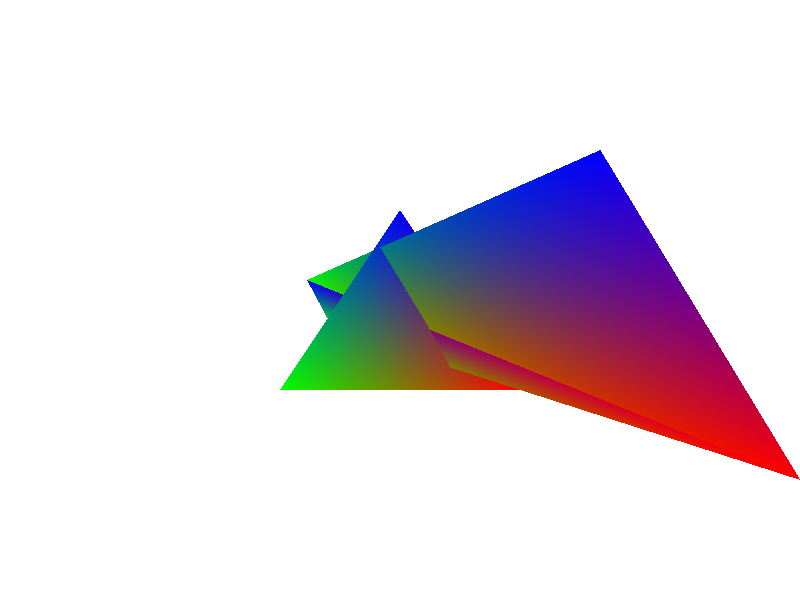
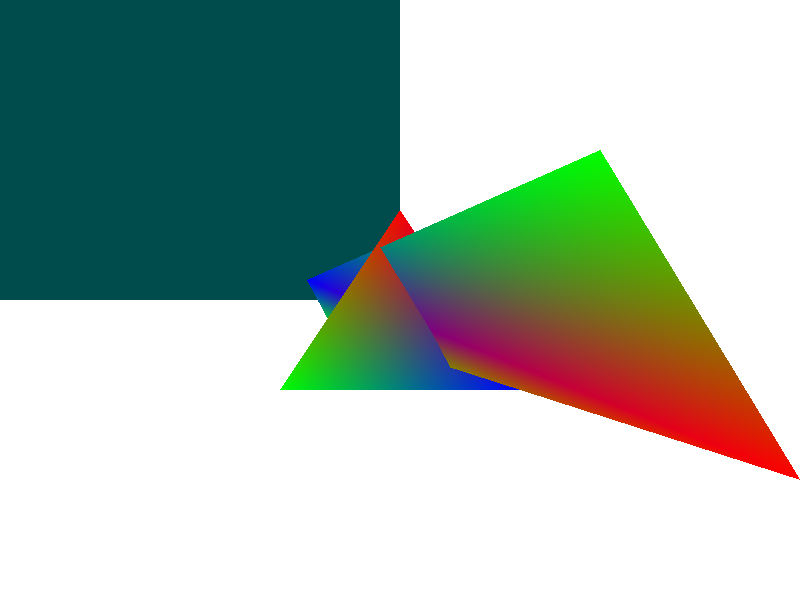
Update status image.

diff --git a/App/main.cpp b/App/main.cpp
@@ -89,8 +89,8 @@ int main(int c, char* argv[])
     resource_desc.depth_or_array_size = 1;
     swrast::resource_t vb = swrast::allocate_resource(resource_desc);
 
-    resource_desc.width = 1920;
-    resource_desc.height = 1080;
+    resource_desc.width = 800;
+    resource_desc.height = 600;
     resource_desc.format = swrast::format_r8g8b8a8_unorm;
     swrast::resource_t rt = swrast::allocate_resource(resource_desc);
    
@@ -144,8 +144,8 @@ int main(int c, char* argv[])
 
     swrast::viewport_t viewport = { };
     viewport.x = viewport.y = 0;
-    viewport.width = 1920;
-    viewport.height = 1080;
+    viewport.width = 800;
+    viewport.height = 600;
     viewport.near = 0.0000f;
     viewport.far = 1.0f;
     swrast::bind_render_targets(1, &rt, ds);

diff --git a/Private/Rasterizer.cpp b/Private/Rasterizer.cpp
@@ -243,7 +243,7 @@ error_t render_output_t::clear_render_target(framebuffer_t& framebuffer, uint32_
     uint32_t a = (uint32_t)(clear_color.a * 255.f);
     uint32_t rgba = (r) | (g << 8) | (b << 16) | (a << 24);
     // TODO: This needs to be configurable! Render target row_pitch needs to be the max width size!
-    uint32_t row_pitch = 1920 * 4;
+    uint32_t row_pitch = 800 * 4;
     for (uint32_t y = rect.y; y < rect.height; ++y)
     {
         for (uint32_t x = rect.x; x < rect.width; ++x)
